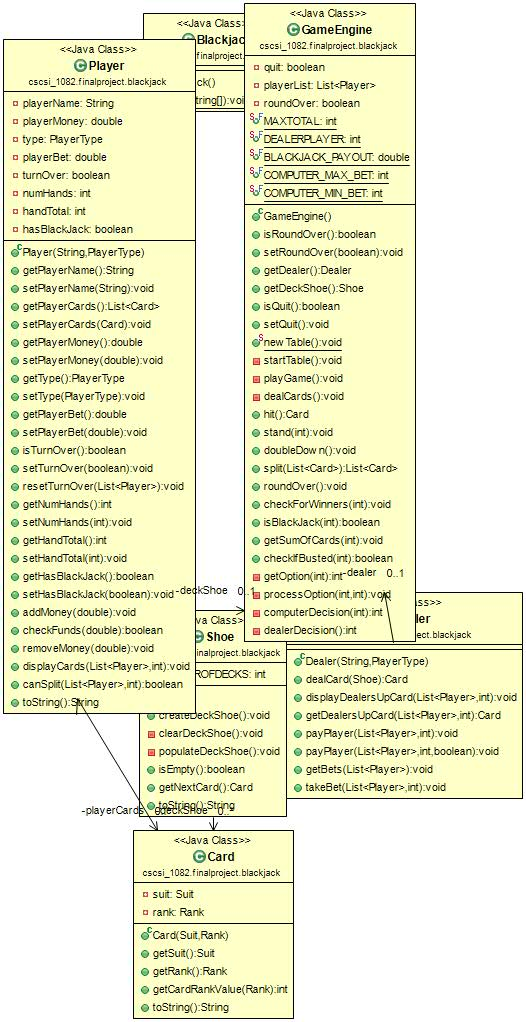
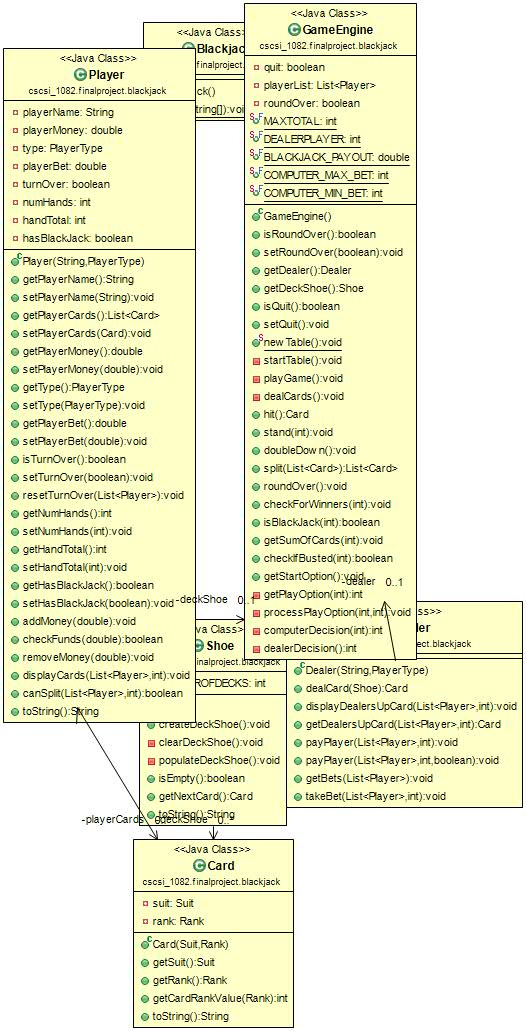
Updated functaionality
GameEngine.java
- Updated game start to give the player an option to bet or quit
- Created a new StartingOption enum to handle the above change
- Updated options to reflect renaming the Option enum to PlayOption
- Removed quit option from Hit/Stand menu
- Added input validation to getStartingOption and getPlayOption methods

StartingOption.java
- Created enum to handle new starting options

Option.java/PlayOption.java
- Updated the name of the Option enum to PlayOption
- Updated code to reflect this change

Player.java
- Updated displayCards method to give the players name before displaying the cards

Changed region(s): [[0.0, 0.0, 1.0, 1.0], [0.4867, 0.9403, 0.5171, 0.9706]]

diff --git a/src/cscsi_1082/finalproject/blackjack/GameEngine.java b/src/cscsi_1082/finalproject/blackjack/GameEngine.java
@@ -18,7 +18,8 @@ import java.util.Scanner;
 
 import cscsi_1082.finalproject.blackjack.Rank;						// Import the Rank enum
 import cscsi_1082.finalproject.blackjack.PlayerType;				// Import the playerType enum
-import cscsi_1082.finalproject.blackjack.Option;					// Import the Option enum
+import cscsi_1082.finalproject.blackjack.PlayOption;				// Import the PlayOption enum
+import cscsi_1082.finalproject.blackjack.StartingOption;			// Import the StartingOption enum
 
 public class GameEngine {
 	
@@ -101,7 +102,6 @@ public class GameEngine {
 	 */
 	public void setQuit() {
 		this.quit = true;
-		this.startTable();
 	}
 	
 	/**
@@ -174,19 +174,21 @@ public class GameEngine {
 	 * @return Nothing
 	 */
 	private void startTable() {
-		// Continue until player is out of money or quits
-		while (this.playerList.get(1).getPlayerMoney() >  0 || this.playerList.get(1).getPlayerBet() > 0 && this.isQuit() == false) {
-			playGame();
+		// Player has no money and no active bet.  Quit
+		if (this.playerList.get(1).getPlayerMoney() <= 0) {
+			System.out.println("You are Broke!  Come again when you have more money!");
+			System.exit(0);		
 		}
 		
-		if(this.isQuit() == true) {
+		// Let player play or quit
+		this.getStartOption();
+		
+		if (this.isQuit() == true) {
 			System.out.println("Thanks for Playing!");
 			System.exit(0);
-		} else {
-			System.out.println("You are Broke!  Come again when you have more money!");
-			System.exit(0);
 		}
 		
+		playGame();
 	}
 	
 	/**
@@ -248,10 +250,10 @@ public class GameEngine {
 				}
 				
 				// Ask the player what they want to do.  If a computer player or dealer it will auto decide
-				int option = this.getOption(player);
+				int option = this.getPlayOption(player);
 
 				// Perform actions player wanted
-				this.processOption(option, player);
+				this.processPlayOption(option, player);
 				
 			}
 		}
@@ -271,10 +273,10 @@ public class GameEngine {
 			}
 			
 			// Ask the player what they want to do.  If a computer player or dealer it will auto decide
-			int option = this.getOption(DEALERPLAYER);
+			int option = this.getPlayOption(DEALERPLAYER);
 
 			// Perform actions player wanted
-			this.processOption(option, DEALERPLAYER);
+			this.processPlayOption(option, DEALERPLAYER);
 		}
 		
 		// Everyone's turn is over.  End the round
@@ -557,7 +559,49 @@ public class GameEngine {
 		}
 	}
 	
-	
+	/**
+	 * Method to get the starting option for the human players.  This gives the player
+	 * the option to bet or quit the game.  Other starting options could be added.
+	 */
+	public void getStartOption() {
+		// Create scanner to get keyboard input
+		Scanner input = new Scanner(System.in);
+		
+		// Initialize option variable for use outside of loops
+		int option = 0;
+		
+		do {
+			// variable to store the chosen option
+			System.out.print("Available options:" +
+							"\n\t1: " + StartingOption.BET + 
+							"\n\t2: " + StartingOption.QUIT +
+							"\nWhat would you like to do? ");
+			option = input.nextInt();
+			input.nextLine();													// Dump buffer
+			if (option < 1 || option > 2) {
+				System.out.println("Invalid Option");
+			}
+		} while (option < 1 || option > 2);
+			
+		/*
+		 *  The following statement will determine enum value that is represented by the int
+		 *  that the customer chose in the previous step.  enum.values() returns an array of the 
+		 *  items declared in the enum in the order they were declared.  Since an array is zero indexed,
+		 *  We want the n - 1 option.
+		 */
+		StartingOption startOption = StartingOption.values()[option - 1];
+		switch(startOption) {
+			// No action needed if player wants to bet
+			case BET:
+				break;
+			case QUIT:		
+				this.setQuit();
+				break;
+			default:
+				System.out.println("Something went wrong in the getStartOption function");
+				System.exit(0);
+		}
+	}
 	
 	/**
 	 * Method to find out what the player wants to do next.  Human players will be asked
@@ -566,38 +610,43 @@ public class GameEngine {
 	 * @param player
 	 * @return option player chose
 	 */
-	private int getOption(int player) {
+	private int getPlayOption(int player) {
 		// Create scanner to get keyboard input
 		Scanner input = new Scanner(System.in);
 		
 		// variable to store the chosen option
 		int option = 0;
+		
 		switch (playerList.get(player).getType()) {
-			case HUMAN:			
-				System.out.print("Available options:" +
-								 "\n\t1: " + Option.HIT + 
-								 "\n\t2: " + Option.STAND + 
-						 		 "\n\t3: " + Option.DOUBLE_DOWN);
-				// Check if the player can split
-				if (playerList.get(player).canSplit(playerList, player)) {
-					System.out.print("\n\t4: " + Option.SPLIT);
-				}
-				System.out.print("\n\t5: " + Option.QUIT + "\n");
-				System.out.print("What would you like to do? ");
-				option = input.nextInt();
+			case HUMAN:		
+				// Input validation loop
+				do {
+					System.out.print("Available options:" +
+									"\n\t1: " + PlayOption.HIT + 
+									"\n\t2: " + PlayOption.STAND + 
+									"\n\t3: " + PlayOption.DOUBLE_DOWN);
+					// Check if the player can split
+					if (playerList.get(player).canSplit(playerList, player)) {
+						System.out.print("\n\t4: " + PlayOption.SPLIT);
+					}
+					System.out.print("\nWhat would you like to do? ");
+					option = input.nextInt();
+					input.nextLine();											// Dump Buffer
+				} while (option < 1 || option > 4);
+				
+				// Input validated.  Exit loop
 				break;
 			case COMPUTER:
 				option = this.computerDecision(player);
 				break;
-			
 			case DEALER:
 				option = this.dealerDecision();
 				break;
-			
 			default:
 				System.out.println("Something went wrong.  I'm trying to get what actions a player should take in the playGame method");
 				System.exit(0);
 		}
+
 		return option;
 	}
 	
@@ -607,14 +656,14 @@ public class GameEngine {
 	 * @param option
 	 * @param player
 	 */
-	private void processOption(int option, int player) {
+	private void processPlayOption(int option, int player) {
 		/*
 		 *  The following statement will determine enum value that is represented by the int
 		 *  that the customer chose in the previous step.  enum.values() returns an array of the 
 		 *  items declared in the enum in the order they were declared.  Since an array is zero indexed,
 		 *  We want the n - 1 option.
 		 */
-		Option playerOption = Option.values()[option - 1];
+		PlayOption playerOption = PlayOption.values()[option - 1];
 		System.out.println("Player: " + this.playerList.get(player).getPlayerName() + " Chose to " + playerOption);
 		// Switch on the enum options.
 		switch (playerOption) {
@@ -638,11 +687,8 @@ public class GameEngine {
 					return;
 				}
 				break;
-			case QUIT:
-				this.setQuit();
-				break;
 			default:
-				System.out.println("Something went wrong.  I was processing options in playGame method!");
+				System.out.println("Something went wrong in the processPlayOption Method!");
 				System.exit(0);
 		}
 	}
@@ -671,7 +717,7 @@ public class GameEngine {
 		
 		// Always split aces
 		if (numberOfAces == 2 && playerList.get(player).getPlayerCards().size() == 2) {
-			return Option.SPLIT.getOptionValue();
+			return PlayOption.SPLIT.getPlayOptionValue();
 		}
 		
 		/*
@@ -681,17 +727,17 @@ public class GameEngine {
 			
 			// If Computer has 19 or better, Stand
 			if (playerList.get(player).getHandTotal() >= 19) {
-				return Option.STAND.getOptionValue();
+				return PlayOption.STAND.getPlayOptionValue();
 			}
 			
 			// If Computer has 17 and Dealer is showing 9 or better, hit, else Stand
 			else if (dealerUpCard.getRank().getRankValue() <= Rank.EIGHT.getRankValue() && playerList.get(player).getHandTotal() == 17) {
-				return Option.STAND.getOptionValue();
+				return PlayOption.STAND.getPlayOptionValue();
 			}
 			
 			// HIt everything else
 			else {
-				return Option.HIT.getOptionValue();
+				return PlayOption.HIT.getPlayOptionValue();
 			}
 		}
 		
@@ -702,30 +748,30 @@ public class GameEngine {
 			
 			// Stand on everything greater than or equal to 17
 			if (playerList.get(player).getHandTotal() >= 17) {
-				return Option.STAND.getOptionValue();
+				return PlayOption.STAND.getPlayOptionValue();
 			}
 			
 			// Stand on any total >= 13 if the dealer is showing a six or below
 			else if (playerList.get(player).getHandTotal() >= 13 && dealerUpCard.getRank().getRankValue() <= Rank.SIX.getRankValue()) {
-				return Option.STAND.getOptionValue();
+				return PlayOption.STAND.getPlayOptionValue();
 			}
 			
 			// Hit on any total >= 12 and < 17 if the dealer is showing a 7 or above
 			else if (playerList.get(player).getHandTotal() >= 12 && playerList.get(player).getHandTotal() < 17 &&
 					 dealerUpCard.getRank().getRankValue() > Rank.SIX.getRankValue()) {
-				return Option.HIT.getOptionValue();
+				return PlayOption.HIT.getPlayOptionValue();
 			}
 			
 			// if hand total == 12 and dealer is showing a 4, 5, or 6 then stand
 			else if (playerList.get(player).getHandTotal() == 12 && dealerUpCard.getRank().getRankValue() >= Rank.FOUR.getRankValue() &&
 					 dealerUpCard.getRank().getRankValue() <= Rank.SIX.getRankValue()) {
-				return Option.STAND.getOptionValue();
+				return PlayOption.STAND.getPlayOptionValue();
 			}
 			
 			
 			}
 		// Hit anything else
-		return Option.HIT.getOptionValue();
+		return PlayOption.HIT.getPlayOptionValue();
 	}
 	/**
 	 * Method to drive the logic behind the dealer's actions with his hand
@@ -751,7 +797,7 @@ public class GameEngine {
 			
 			// If Dealer has 18 or better, Stand
 			if (playerList.get(DEALERPLAYER).getHandTotal() >= 18) {
-				return Option.STAND.getOptionValue();
+				return PlayOption.STAND.getPlayOptionValue();
 			}
 		}
 		
@@ -762,11 +808,11 @@ public class GameEngine {
 			
 			// Stand on everything greater than or equal to 17
 			if (playerList.get(DEALERPLAYER).getHandTotal() >= 17) {
-				return Option.STAND.getOptionValue();
+				return PlayOption.STAND.getPlayOptionValue();
 			}
 		} 
 			
 		// Hit anything else
-		return Option.HIT.getOptionValue();
+		return PlayOption.HIT.getPlayOptionValue();
 	}
 }

diff --git a/src/cscsi_1082/finalproject/blackjack/PlayOption.java b/src/cscsi_1082/finalproject/blackjack/PlayOption.java
@@ -8,22 +8,21 @@
 
 package cscsi_1082.finalproject.blackjack;
 
-public enum Option {
+public enum PlayOption {
 	HIT				(1),
 	STAND			(2),
 	DOUBLE_DOWN		(3),
-	SPLIT			(4),
-	QUIT			(5);
+	SPLIT			(4);
 	
-	private final int optionValue;				// Instance variable that stores the integer value
+	private final int playOptionValue;				// Instance variable that stores the integer value
 	
 	/**
 	 * Constructor for the enum
 	 * 
 	 * @param optionValue
 	 */
-	Option(int optionValue) {
-		this.optionValue = optionValue;
+	PlayOption(int optionValue) {
+		this.playOptionValue = optionValue;
 	}
 	
 	/**
@@ -31,7 +30,7 @@ public enum Option {
 	 * 
 	 * @return integer value
 	 */
-	public final int getOptionValue() {
-		return optionValue;
+	public final int getPlayOptionValue() {
+		return playOptionValue;
 	}
 }

diff --git a/src/cscsi_1082/finalproject/blackjack/Player.java b/src/cscsi_1082/finalproject/blackjack/Player.java
@@ -265,6 +265,7 @@ public class Player {
 	 * @param player
 	 */
 	public void displayCards(List<Player> playerList, int player) {
+		System.out.println(playerList.get(player).getPlayerName() + "'s Hand:");
 		for (int card = 0; card < playerList.get(player).playerCards.size(); card ++) {
 			System.out.println("Card " + (card + 1) + ": " + playerList.get(player).playerCards.get(card));
 		}
